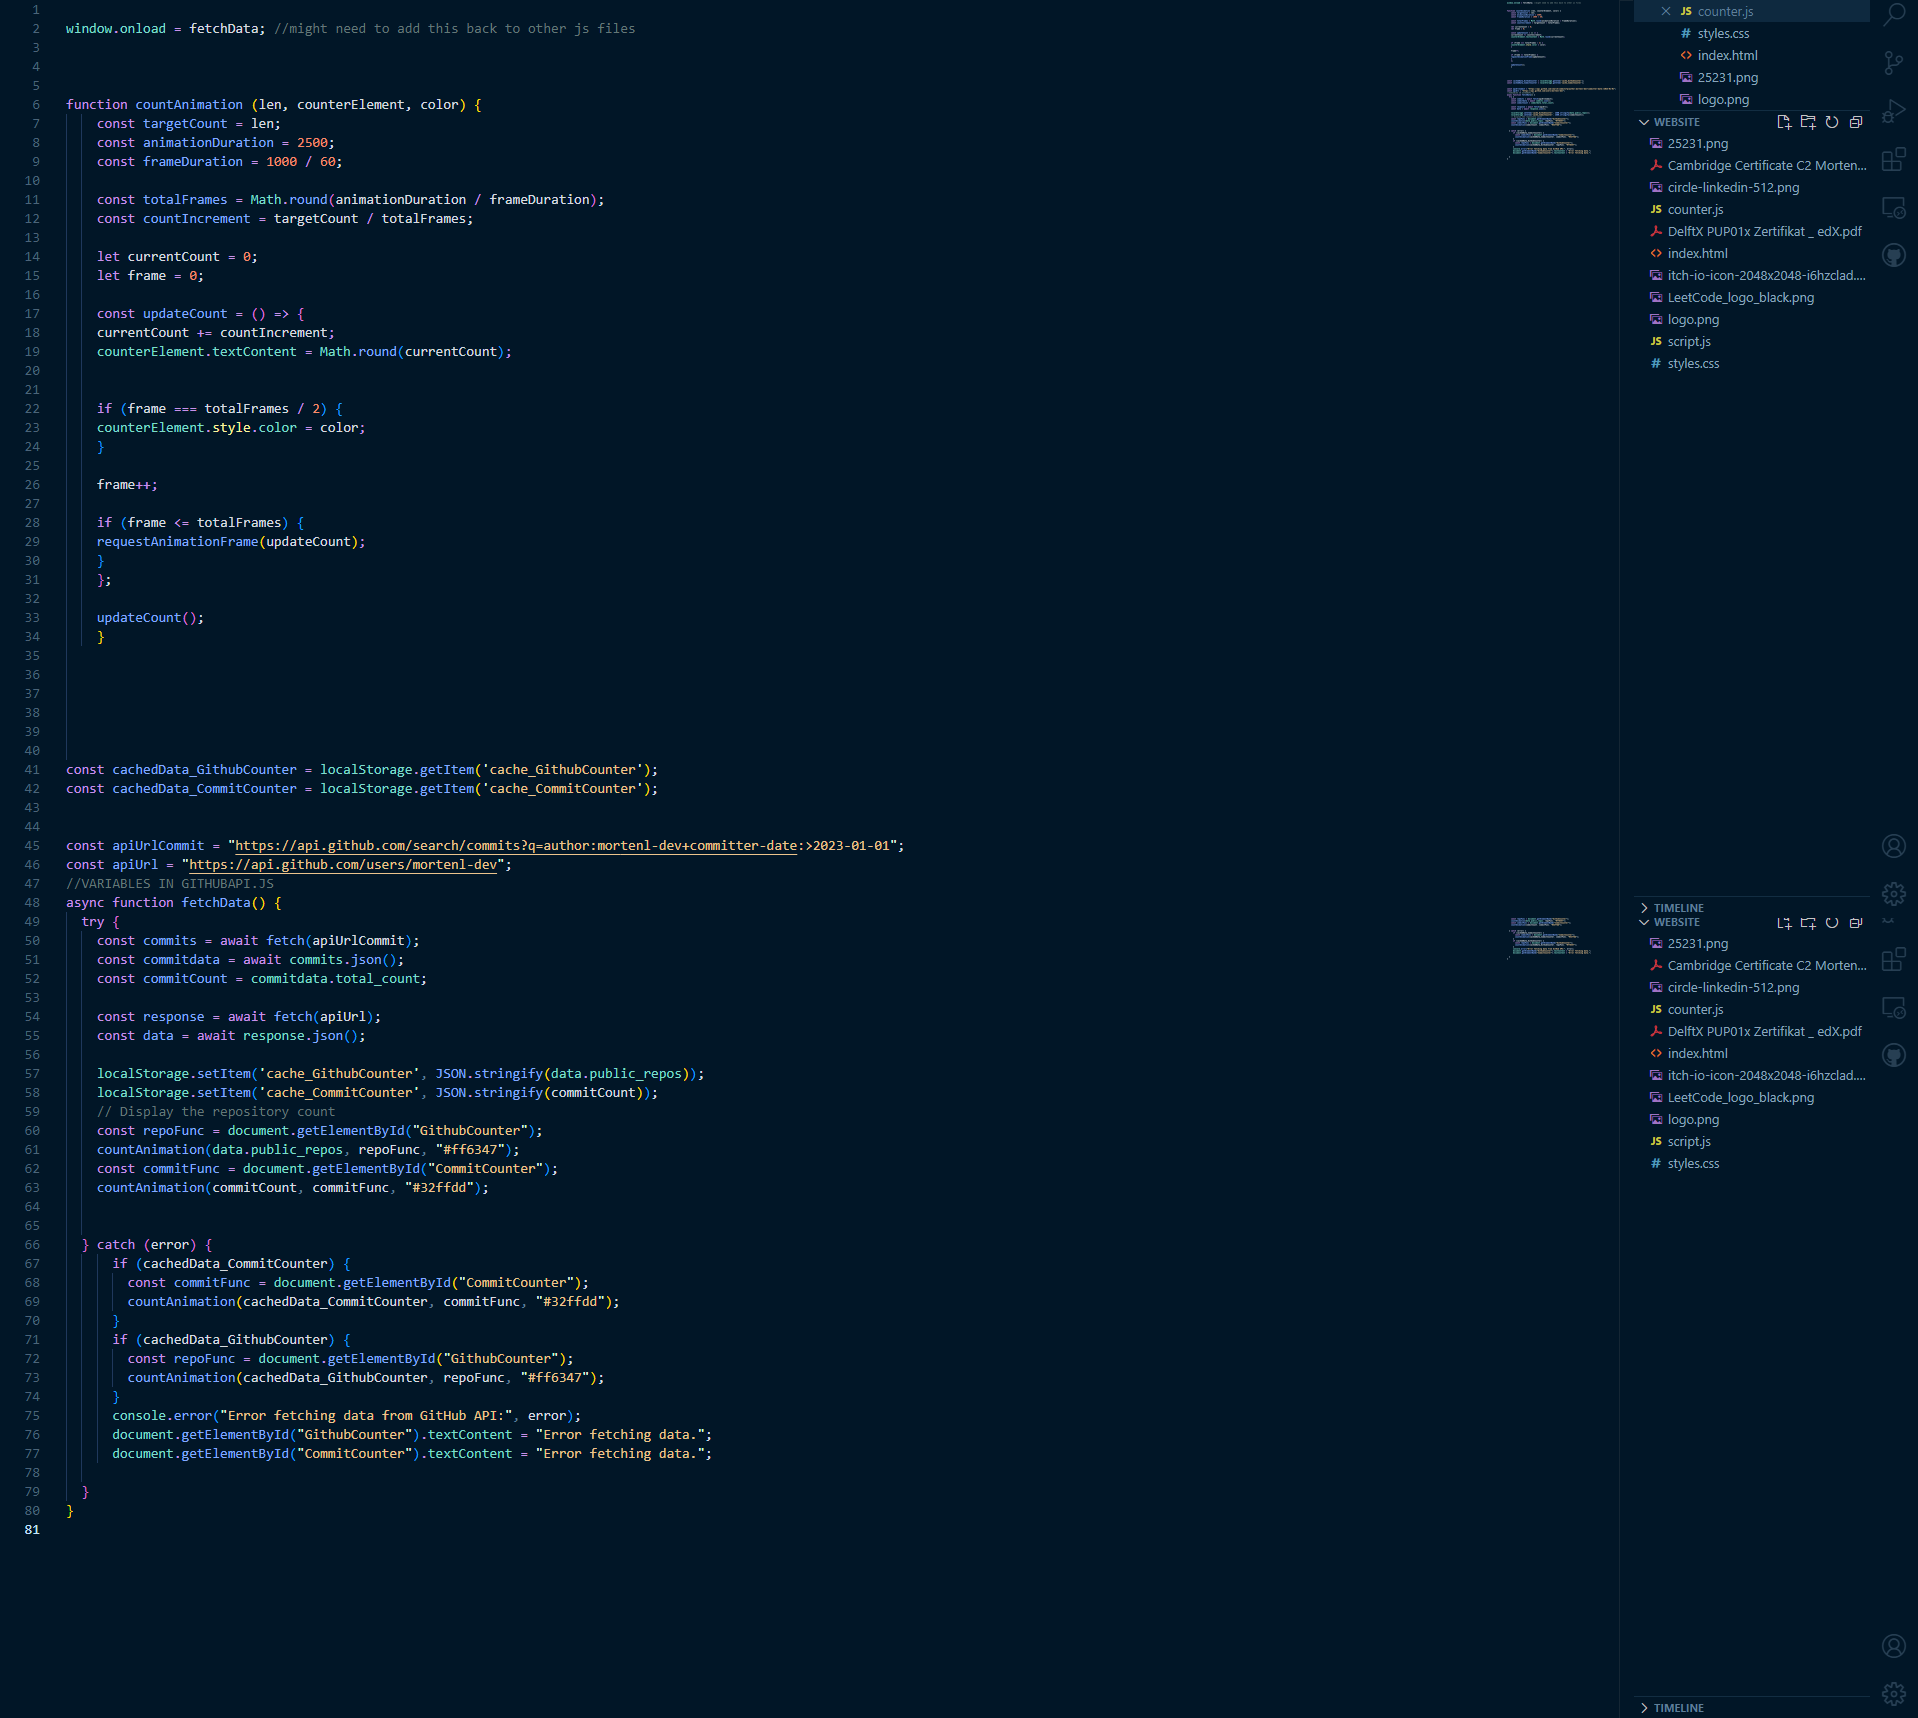
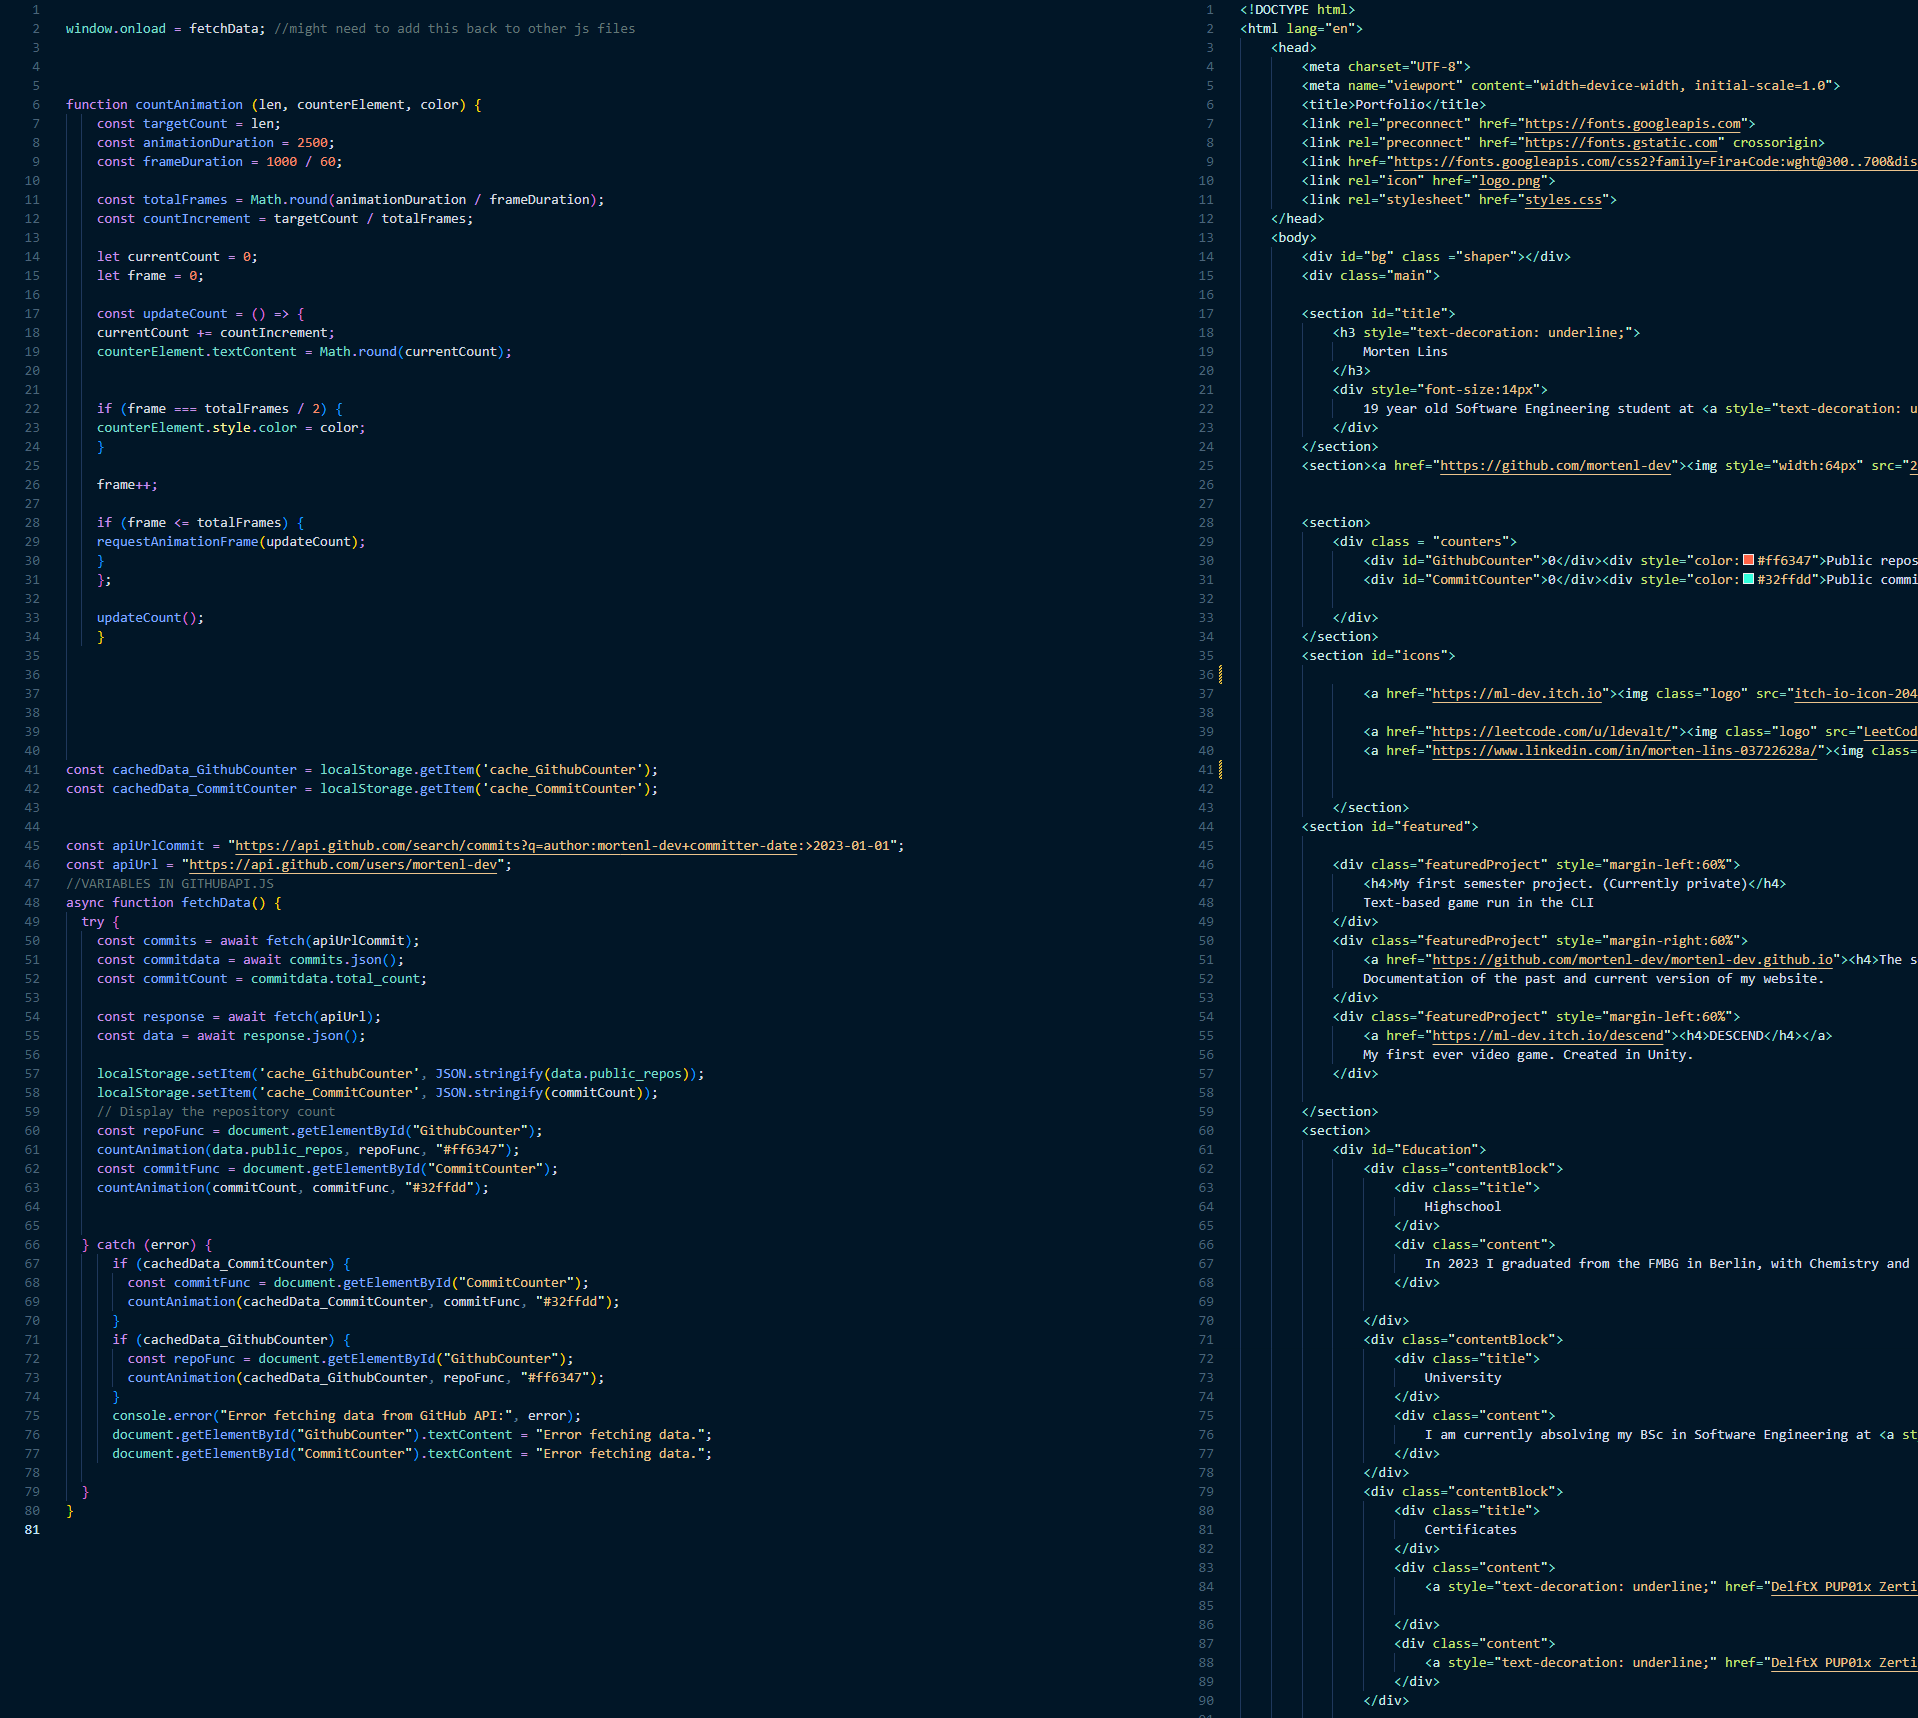
Updated BG

diff --git a/styles.css b/styles.css
@@ -87,19 +87,19 @@ a {
     overflow: hidden;
     display: flex;
     justify-content: center;
-    object-fit: cover; 
+    object-fit: cover;
     position:absolute;
 }
 .shaper {
 background: gray url("Screenshot (152).png") repeat 0 0;
 width: 100%;
 text-align: center;
-height: 2000px;
+height: 1718px;
 box-sizing: border-box;
--webkit-animation: slide 50s linear infinite;
+-webkit-animation: slide 20s linear infinite;
 }
 
 @-webkit-keyframes slide {
     from { background-position: 0 0; }
-    to { background-position: 0 -512px; }
+    to { background-position: 0 -1718px; }
 }

diff --git a/index.html b/index.html
@@ -33,12 +33,12 @@
             </div>
         </section>
         <section id="icons">
-            <!--
+            
                 <a href="https://ml-dev.itch.io"><img class="logo" src="itch-io-icon-2048x2048-i6hzclad.png"></a>
                 
                 <a href="https://leetcode.com/u/ldevalt/"><img class="logo" src="LeetCode_logo_black.png"></a>
                 <a href="https://www.linkedin.com/in/morten-lins-03722628a/"><img class="logo" src="circle-linkedin-512.png"></a>
-            -->
+            
     
             </section>
         <section id="featured">
